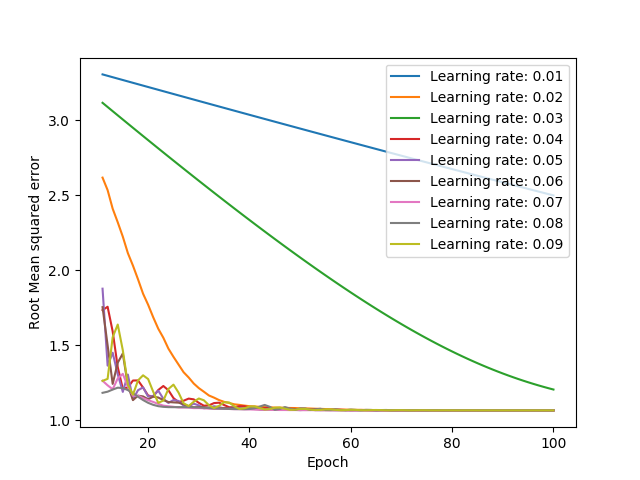
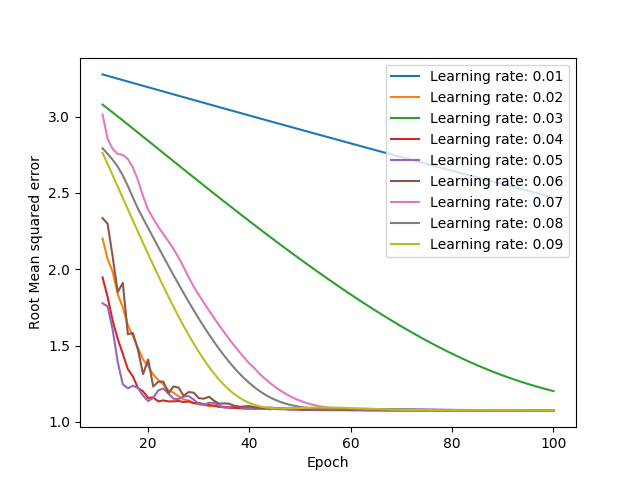
Added parameters

diff --git a/stackedAutoencoders.py b/stackedAutoencoders.py
@@ -41,7 +41,8 @@ NUM_TEST_JOKES              = 0.2
 NUM_DEV_TEST_JOKES          = NUM_DEV_JOKES + NUM_TEST_JOKES
 
 # Hyperparameters for the model
-ACTIVATION_FUNCTION         = 'ReLU'
+ACTIVATION                  = 'ReLU'
+HIDDEN_DIM                  = 5
 NUM_STACKS                  = 6
 LEARNING_RATE               = 0.04
 WEIGHT_DECAY                = 0.0
@@ -192,9 +193,9 @@ def getLoss(predicted, actual, loss_function='MMSE'):
 # TRAIN AND TEST
 ####################################################################################################
 
-def train(learing_rate, weight_decay, loss_function, num_iterations, save_model=False):
+def train(hidden_dim, activation, num_stacks, learing_rate, weight_decay, loss_function, num_iterations, calculate_precision = False, save_model = False):
         # Training on train data
-    stackedAutoEncoder  = StackedAutoEncoder().to(DEVICE)
+    stackedAutoEncoder  = StackedAutoEncoder(hidden_dim = hidden_dim, activation = activation, num_stacks = num_stacks).to(DEVICE)
     optimizer           = optim.Adam(stackedAutoEncoder.parameters(), lr = learing_rate, weight_decay = weight_decay)
 
     print("Training...")
@@ -216,14 +217,15 @@ def train(learing_rate, weight_decay, loss_function, num_iterations, save_model=
 
     print("Training finished.\n")
 
-    precision_train, recall_train = Precision_Recall_TopK(stackedAutoEncoder(train_data), train_data)
-    precision_dev, recall_dev = Precision_Recall_TopK(stackedAutoEncoder(dev_data), dev_data)
+    if (calculate_precision):
+        precision_train, recall_train = Precision_Recall_TopK(stackedAutoEncoder(train_data), train_data)
+        precision_dev, recall_dev = Precision_Recall_TopK(stackedAutoEncoder(dev_data), dev_data)
 
-    print("Precision of train data: " + str(precision_train))
-    print("Recall on train data: " + str(recall_train))
+        print("Precision of train data: " + str(precision_train))
+        print("Recall on train data: " + str(recall_train))
 
-    print("Precision of dev data: " + str(precision_dev))
-    print("Recall on dev data: " + str(recall_dev))
+        print("Precision of dev data: " + str(precision_dev))
+        print("Recall on dev data: " + str(recall_dev))
 
     if (save_model):
         print("Saving model...")
@@ -269,39 +271,44 @@ def plot_images(plot_data, labels, xlabel, ylabel, filename):
 
 
 def experiment_learning_rate():
+    print("Experimenting with learning rate...")
     learning_rates = [i / 100.0 for i in range(1, 10)]
 
     plot_data = []
     labels = []
     for learning_rate in learning_rates:
-        epoch_train_loss, epoch_dev_loss = train(learning_rate, WEIGHT_DECAY, "MMSE", NUM_ITERATIONS, True)
+        print("Trying learning rate: " + str(learning_rate))
+        epoch_train_loss, epoch_dev_loss = train(HIDDEN_DIM, ACTIVATION, NUM_STACKS, learning_rate, WEIGHT_DECAY, "MMSE", NUM_ITERATIONS, calculate_precision = False, save_model = False)
         plot_data.append(epoch_train_loss[10:])
         labels.append("Learning rate: " + str(learning_rate))
-    plot_images(plot_data, labels, "Epoch", "Masked Mean squared error", "VaryingLearningRate_MMSE.png")
+    plot_images(plot_data, labels, "Epoch", "Masked Mean squared error", "images/VaryingLearningRate_MMSE.png")
 
     plot_data = []
     labels = []
     for learning_rate in learning_rates:
-        epoch_train_loss, epoch_dev_loss = train(learning_rate, WEIGHT_DECAY, "RMSE", NUM_ITERATIONS, True)
+        epoch_train_loss, epoch_dev_loss = train(HIDDEN_DIM, ACTIVATION, NUM_STACKS, learning_rate, WEIGHT_DECAY, "RMSE", NUM_ITERATIONS, calculate_precision = False, save_model = False)
         plot_data.append(epoch_train_loss[10:])
         labels.append("Learning rate: " + str(learning_rate))
-    plot_images(plot_data, labels, "Epoch", "Root Mean squared error", "VaryingLearningRate_RMSE.png")
+    plot_images(plot_data, labels, "Epoch", "Root Mean squared error", "images/VaryingLearningRate_RMSE.png")
 
 
 def experiment_loss_functions():
+    print("Experimenting with loss functions...")
     learning_rate = 0.01
     plot_data = []
     labels = []
 
-    epoch_train_loss, epoch_dev_loss = train(learning_rate, WEIGHT_DECAY, "MMSE", NUM_ITERATIONS, True)
+    print("Trying MMSE")
+    epoch_train_loss, epoch_dev_loss = train(HIDDEN_DIM, ACTIVATION, NUM_STACKS, learning_rate, WEIGHT_DECAY, "MMSE", NUM_ITERATIONS, calculate_precision = False, save_model = False)
     plot_data.append(epoch_train_loss[10:])
     labels.append("MMSE")
 
-    epoch_train_loss, epoch_dev_loss = train(learning_rate, WEIGHT_DECAY, "RMSE", NUM_ITERATIONS, True)
+    print("Trying RMSE")
+    epoch_train_loss, epoch_dev_loss = train(HIDDEN_DIM, ACTIVATION, NUM_STACKS, learning_rate, WEIGHT_DECAY, "RMSE", NUM_ITERATIONS, calculate_precision = False, save_model = False)
     plot_data.append(epoch_train_loss[10:])
     labels.append("RMSE")
 
-    plot_images(plot_data, labels, "Epoch", "Error", "VaryingLossFunction.png")
+    plot_images(plot_data, labels, "Epoch", "Error", "images/VaryingLossFunction.png")
 
 
 def run_experiments():
@@ -316,7 +323,7 @@ mode = sys.argv[1]
 
 if (mode == 'train'):
     # Training on train data
-    train(LEARNING_RATE, WEIGHT_DECAY, LOSS_FUNCTION, NUM_ITERATIONS, True)
+    train(HIDDEN_DIM, ACTIVATION, NUM_STACKS, LEARNING_RATE, WEIGHT_DECAY, LOSS_FUNCTION, NUM_ITERATIONS, calculate_precision=True, save_model=True)
 
 elif (mode == 'test'):
     # Testing on test data
